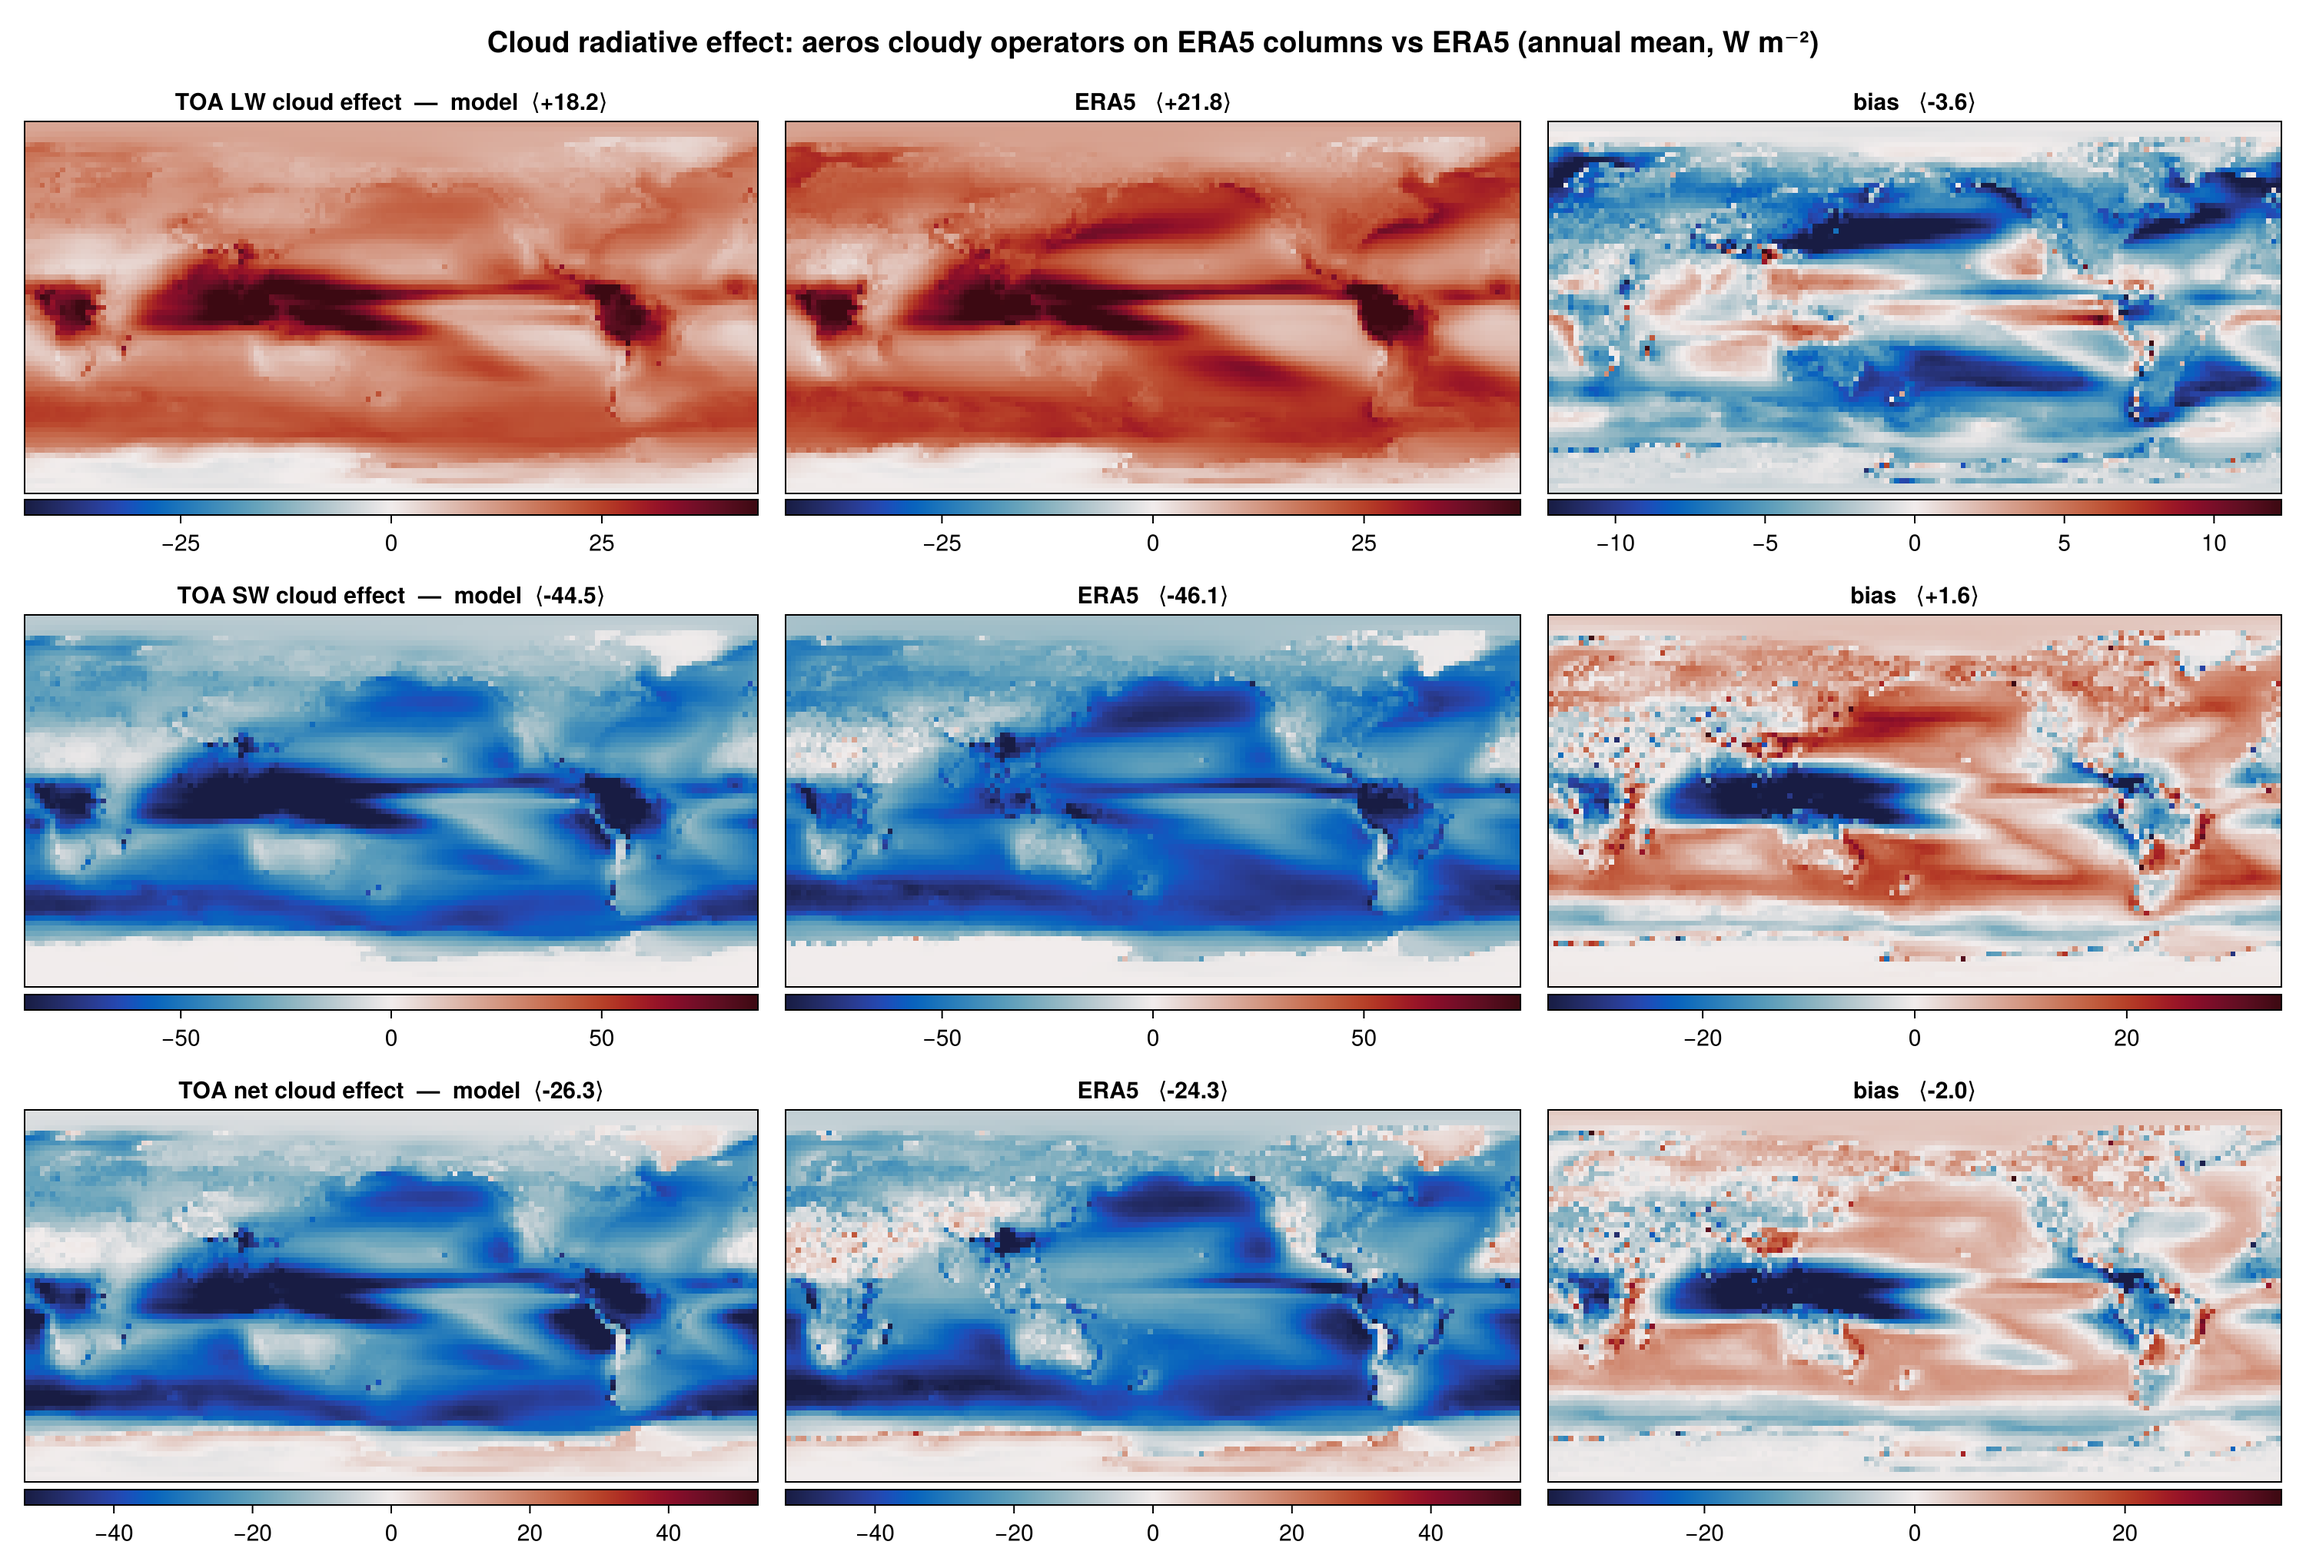
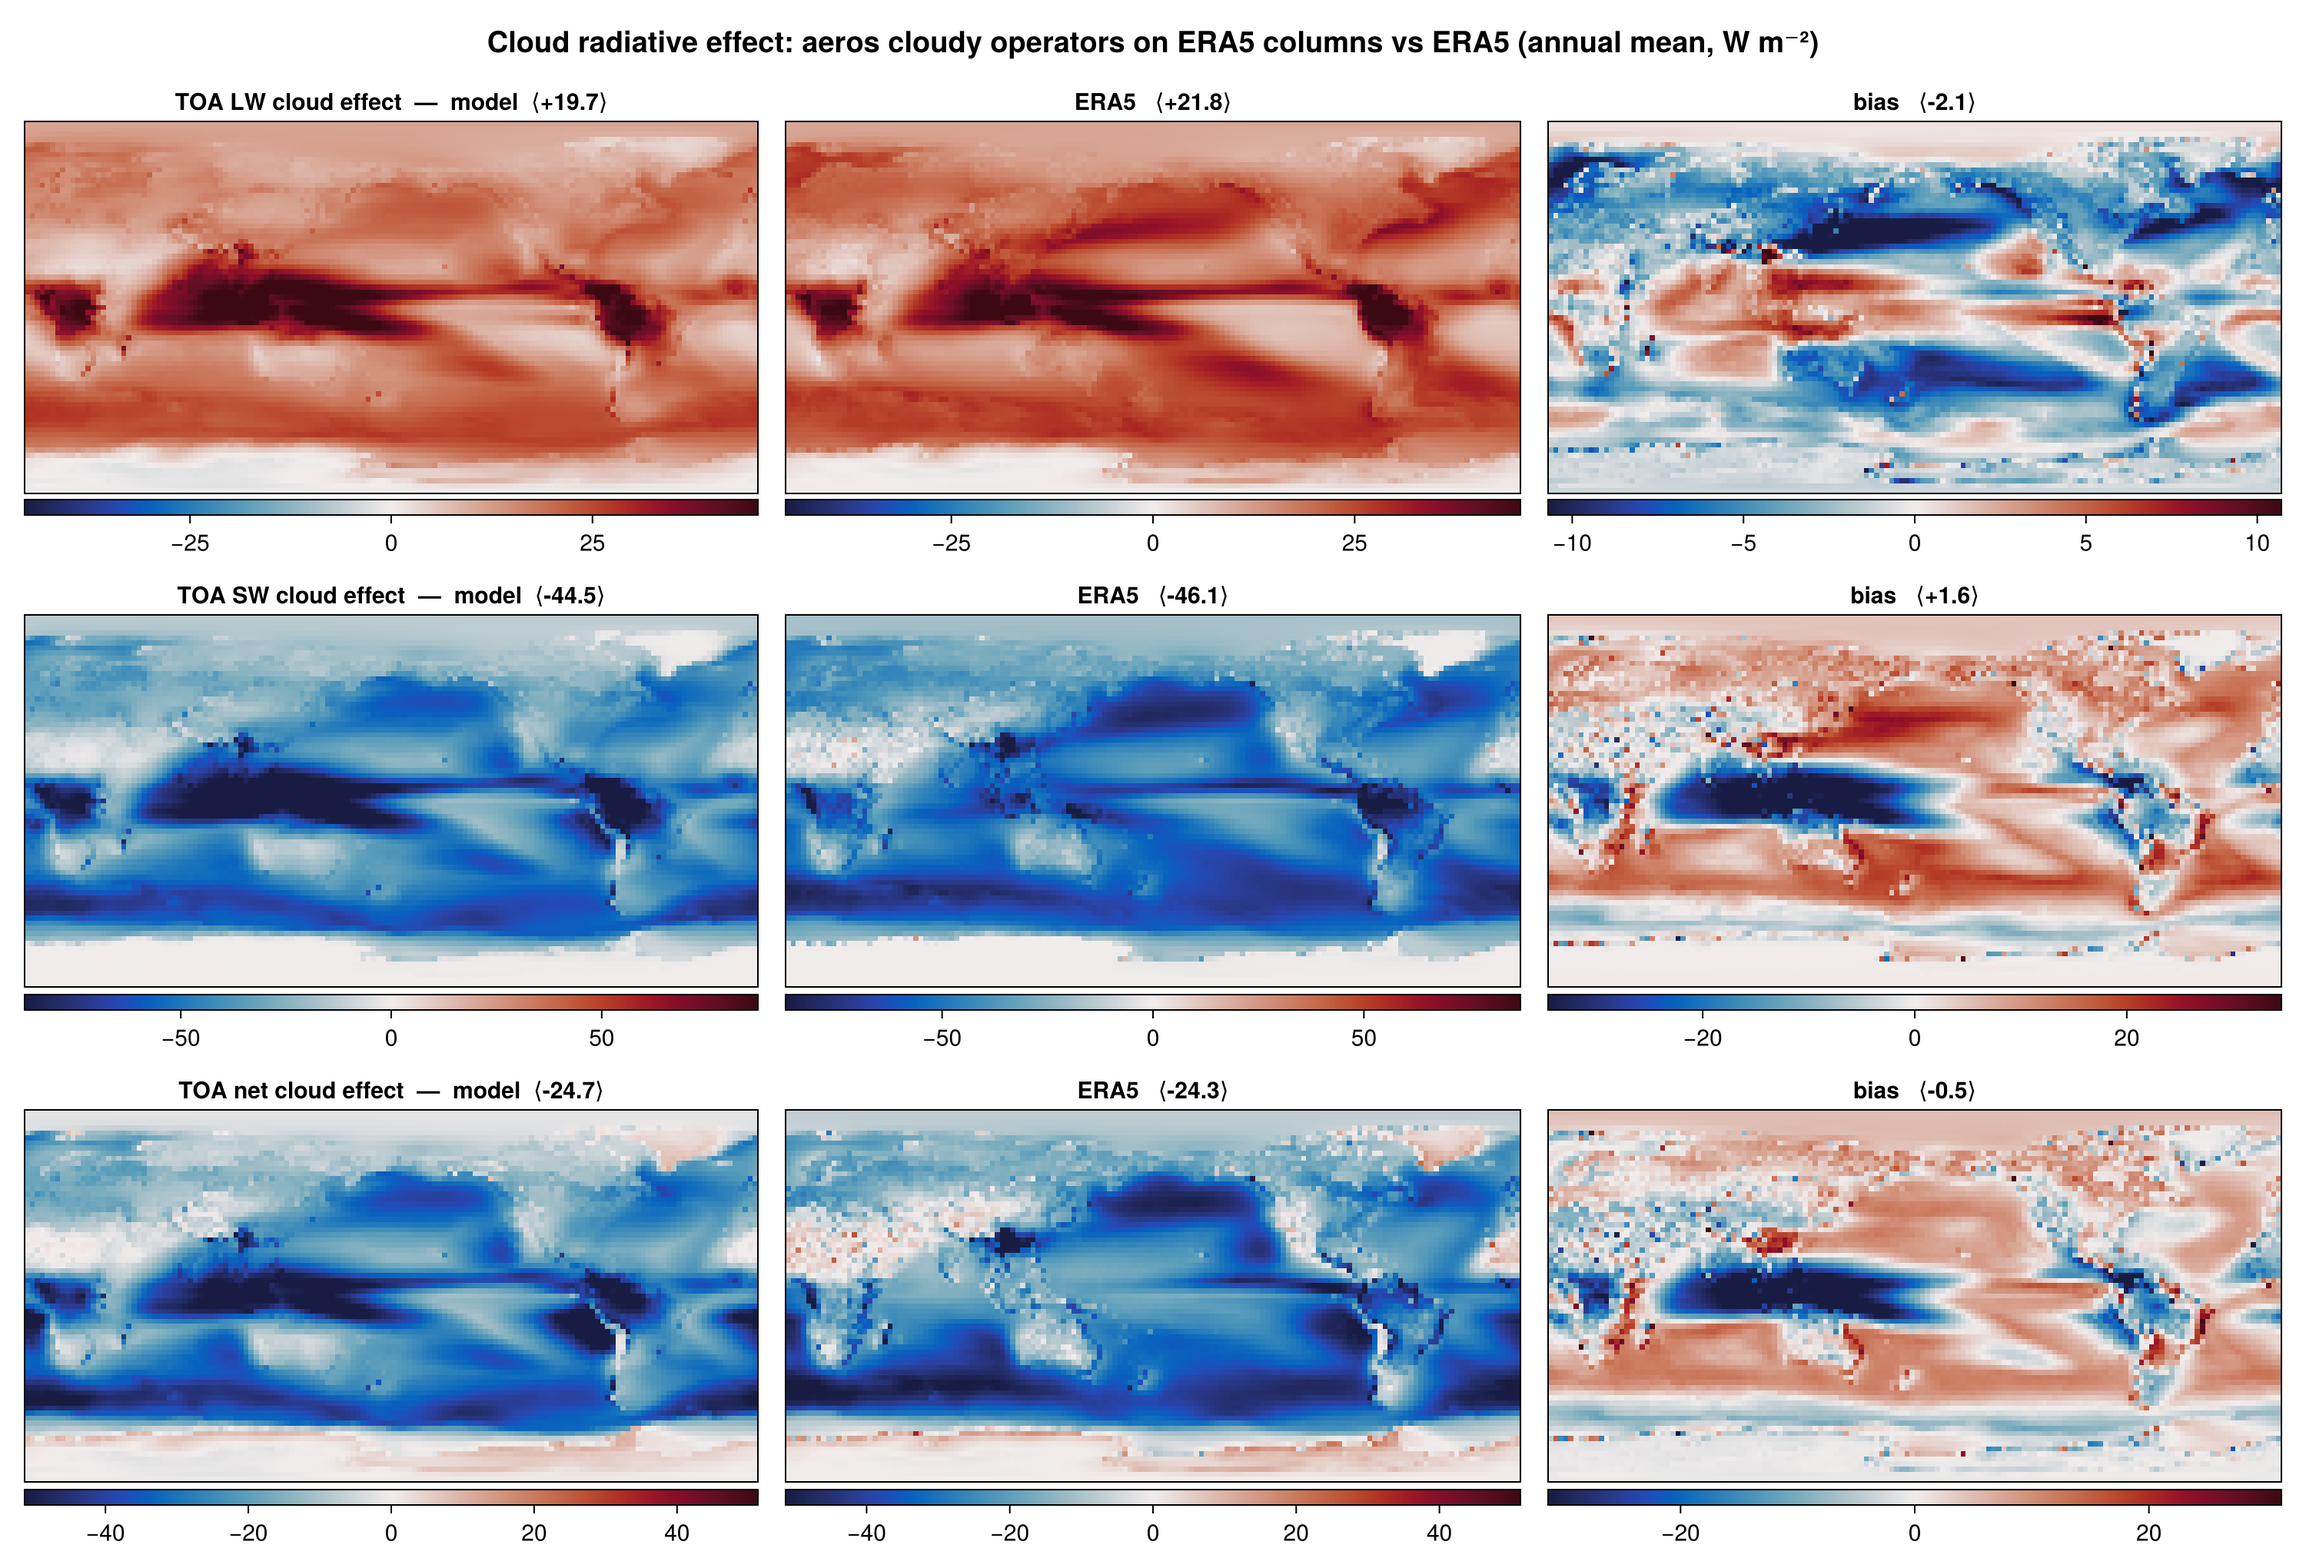
radiation: water-vapour opacity correction for the clear-sky OLR bias (§20)
The SESAM vapour band runs ~16 W/m2 too opaque in the warm moist tropics
(clear-sky OLR too low, §14). Rather than re-fit the tuned SESAM coefficients
piecemeal, add a single documented correction LW_VAP_OPAC multiplying the
vapour optical depth in d_vap = 1/(1 + vap_opac*tau_vap): 1.0 is SESAM
bit-for-bit, <1 less opaque, and because the term dominates only at large
path it targets the tropics without touching dry columns.

Set to 0.80 (minimizes combined clear-sky LW error; a single knob cannot null
OLR and surface-LW at once). Clear-sky OLR bias -15.9 -> -7.1; CO2 forcing
stays canonical (3.0); SW untouched; 18/18 tests pass. Also improves the
cloudy branch: TOA LW CRE -3.6 -> -2.1, net CRE -2.0 -> -0.5 vs ERA5. Retire
when ecCKD lands.

diff --git a/docs/m2_results.md b/docs/m2_results.md
@@ -909,20 +909,20 @@ SW and net CRE). Area-weighted global means [W m⁻²]:
 
 | CRE (TOA) | model | ERA5 | bias |
 |---|---|---|---|
-| LW  | +18.2 | +21.8 | −3.6 |
+| LW  | +19.7 | +21.8 | −2.1 |
 | SW  | −44.5 | −46.1 | +1.6 |
-| net | −26.3 | −24.2 | −2.0 |
+| net | −24.7 | −24.2 | −0.5 |
 
-All three land within a few W/m² and the **spatial patterns match** — LW warming
-peaking over the ITCZ and warm-pool deep convection, SW cooling over the marine
-stratocumulus decks and storm tracks, net cooling concentrated in the tropics.
-The residual −3.6 LW CRE is consistent with the §14 clear-sky OLR being ~16 W/m²
-too low (too opaque leaves less headroom for cloud to further cut the OLR) and
-with maximum overlap running slightly weak where cloud is in separated decks;
-maximum-random overlap is the identified refinement. The SW is essentially on
-target. This validates the *radiative transfer* of the cloudy branch against
-observations, offline — decoupled from coupled-model cloud generation, which
-§19 now supplies.
+(These are with the §20 water-vapour opacity correction; before it the LW CRE
+was +18.2, bias −3.6, and the net −26.3.) All three land within a couple of W/m²
+and the **spatial patterns match** — LW warming peaking over the ITCZ and
+warm-pool deep convection, SW cooling over the marine stratocumulus decks and
+storm tracks, net cooling concentrated in the tropics. The small residual −2.1
+LW CRE is consistent with maximum overlap running slightly weak where cloud is
+in separated decks (maximum-random overlap is the identified refinement); the SW
+and net are essentially on target. This validates the *radiative transfer* of
+the cloudy branch against observations, offline — decoupled from coupled-model
+cloud generation, which §19 now supplies.
 
 ## 19. Diagnostic clouds wired into the coupled model (M2.5g)
 
@@ -952,3 +952,35 @@ near-overcast, optically thick cloud everywhere. Tuning the diagnosis (higher
 `RH_crit`, smaller condensate fraction) against ERA5 `cc` / the §17 CRE is the
 immediate next step; the wiring, opt-in and validated end-to-end, is what lands
 here.
+
+## 20. The clear-sky OLR opacity bias — a vapour-opacity correction (M2.5h)
+
+§14 found the clear-sky OLR ~16 W/m² too low, concentrated in the warm moist
+tropics: the SESAM broadband water-vapour band is too opaque where the vapour
+path is largest. The SESAM coefficients are one internally-consistent fit not
+meant to be re-fit piecemeal (and the structural fix is the eventual ecCKD
+scheme), so rather than repartition them this adds a **single documented
+correction** `LW_VAP_OPAC` multiplying the whole vapour optical depth in
+`d_vap = 1/(1 + vap_opac·τ_vap)`. `vap_opac = 1` is SESAM verbatim (bit-for-bit);
+`< 1` reduces the opacity. Because the term is negligible at small path and
+dominant at large path, one scale corrects the tropics and barely touches the
+dry columns — it targets exactly where the bias lives.
+
+A single knob cannot null the TOA and surface longwave bias at once — they
+trade off, so it is set to minimize the combined clear-sky LW error:
+
+| `vap_opac` | OLR bias | sfc-down-LW bias |
+|---|---|---|
+| 1.00 (SESAM) | −15.9 | +6.4 |
+| 0.80 (kept)  | −7.1  | −5.0 |
+| 0.65         | +0.9  | −16.7 |
+
+At **0.80** the clear-sky OLR bias more than halves (−15.9 → −7.1) while the
+surface-down-LW magnitude stays comparable (+6.4 → −5.0, the one cost — its sign
+flips). The shortwave is untouched (a separate band); the CO₂-doubling forcing
+stays canonical (2.8 → 3.0 W/m², the vapour band masking the CO₂ bands slightly
+less); the greenhouse and all `test_radiation` checks pass. The correction also
+helps the cloudy branch: with the clear-sky OLR less biased there is more
+headroom for cloud, so the §18 TOA cloud radiative effect improves — LW CRE
+−3.6 → −2.1, net CRE −2.0 → −0.5 against ERA5. `vap_opac` is a named parameter
+(one place, documented) to be retired when ecCKD lands.
